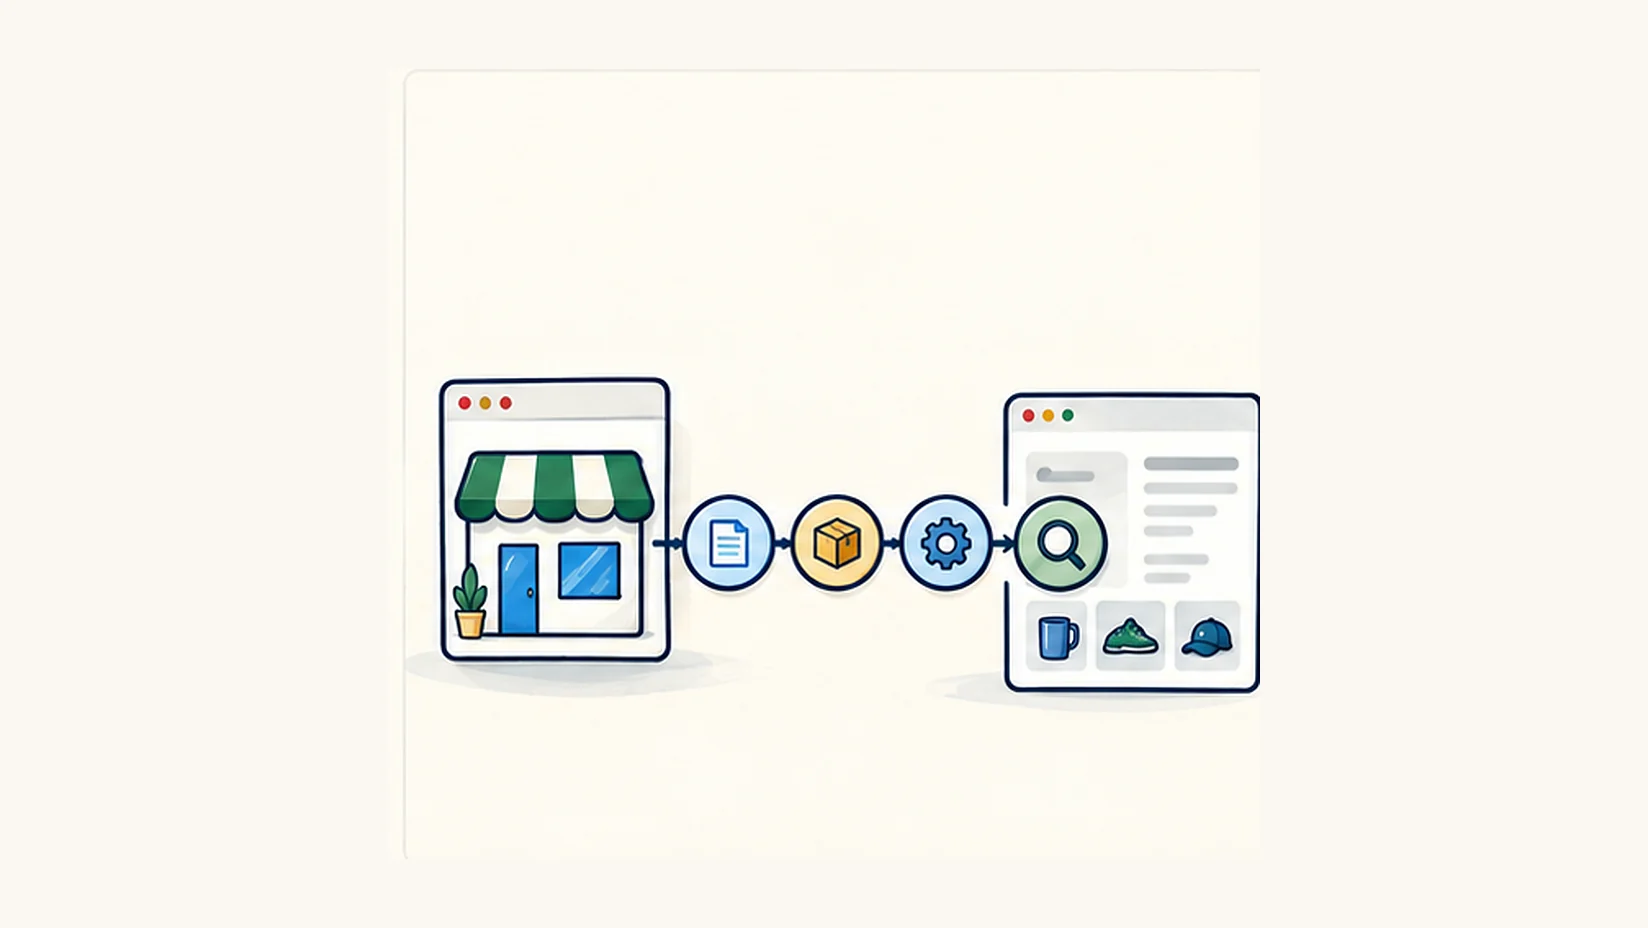
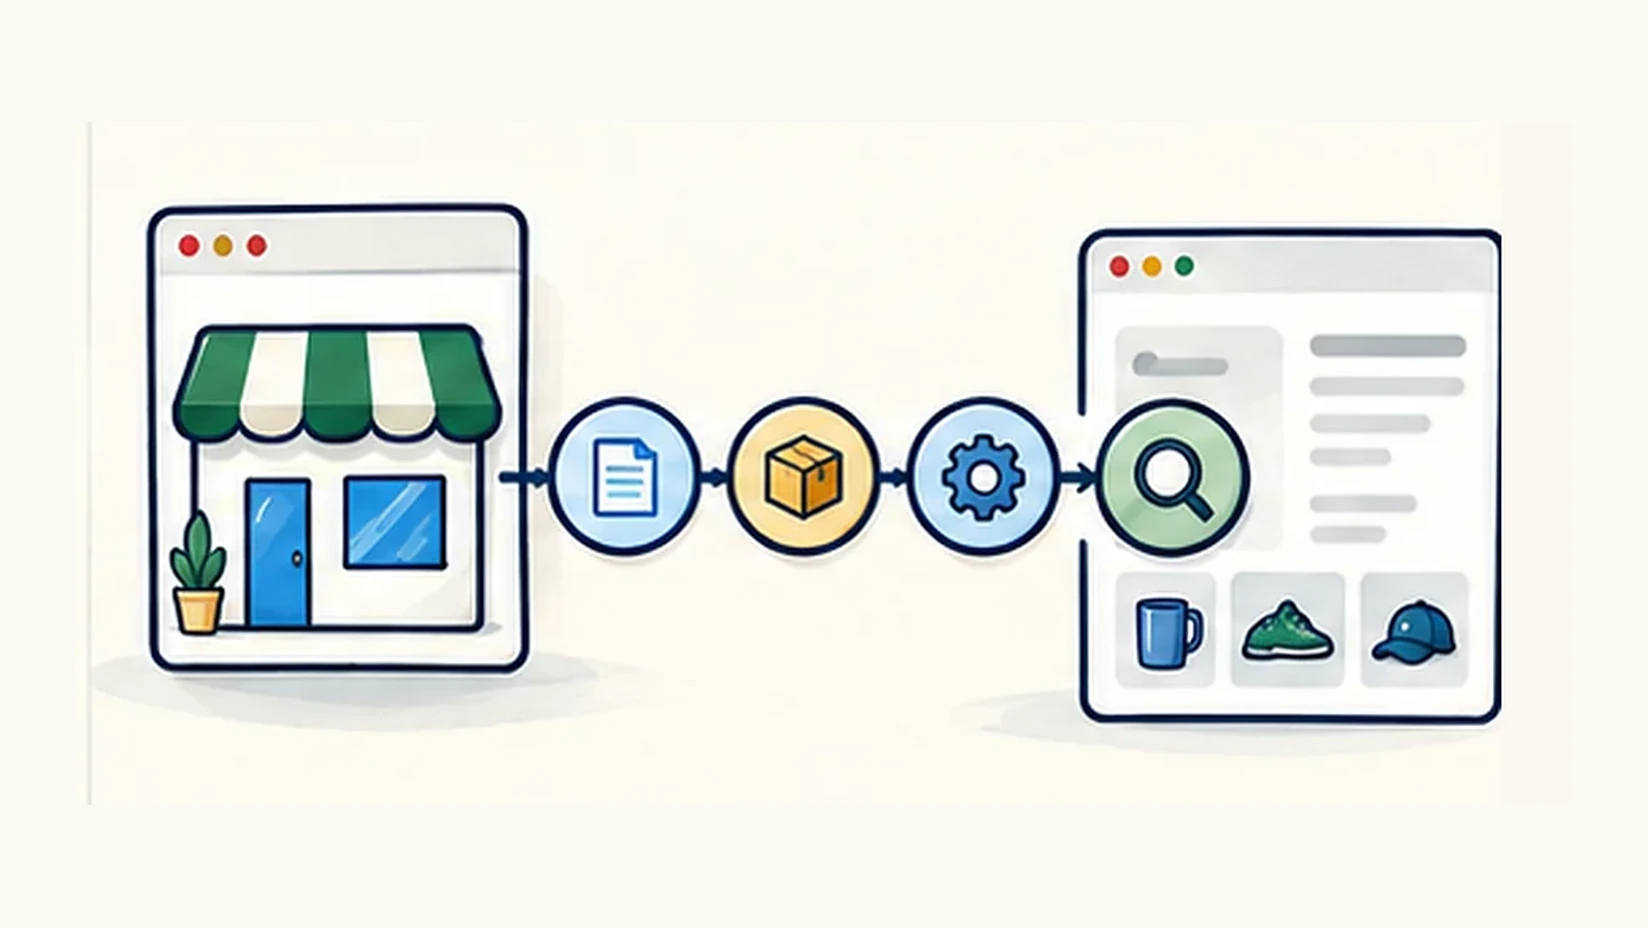
Rebuild five Blog thumbnail assets without inset framing (#78)
* Add deterministic asset refresh script for five approved blog illustrations

* Run asset cleanup once on dedicated artwork branch

* Replace five inset Blog artwork assets

* Remove CSS zoom workaround now that original thumbnails are being rebuilt

* Cache-bust rebuilt blog artwork thumbnails

* Remove one-time thumbnail rebuilding helper after asset generation

* Remove one-time thumbnail rebuilding helper after asset generation

---------

Changed region(s): [[0.0619, 0.2188, 0.9284, 0.8125]]

diff --git a/blog/blog-index.css b/blog/blog-index.css
@@ -1061,18 +1061,4 @@
 }
 
 
-/* Normalize the five late-library thumbnails with excess baked-in outer matting.
-   Increase visual footprint without stretching or replacing approved illustrations. */
-.journey-go-deeper .guide-card a[href="product-taxonomy-before-catalog-mess.html"].guide-image img,
-.journey-go-deeper .guide-card a[href="agency-client-onboarding-penstack.html"].guide-image img,
-.journey-go-deeper .guide-card a[href="audit-inherited-shopify-catalog.html"].guide-image img,
-.journey-go-deeper .guide-card a[href="product-listing-qa-standard.html"].guide-image img,
-.journey-go-deeper .guide-card a[href="multi-brand-store-boundaries.html"].guide-image img{
-  padding:0;
-  width:100%;
-  height:100%;
-  object-fit:cover;
-  object-position:center;
-  transform:scale(1.12);
-  transform-origin:center;
-}
+

diff --git a/blog/index.html b/blog/index.html
@@ -69,7 +69,7 @@ j=d.createElement(s),dl=l!='dataLayer'?'&l='+l:'';j.async=true;j.src=
       <link rel="preload" as="image" href="../penstack-blog-main-banner-v2.webp" type="image/webp" fetchpriority="high">
 <link rel="stylesheet" href="../styles.css?v=20261004-footer-colors">
   <link rel="stylesheet" href="blog.css?v=12">
-  <link rel="stylesheet" href="blog-index.css?v=7">
+  <link rel="stylesheet" href="blog-index.css?v=8">
   <link rel="stylesheet" href="../brand.css?v=20261004-green-cta">
 </head>
 <body>
